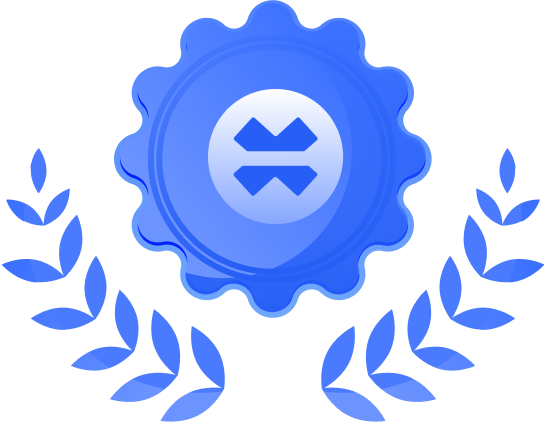
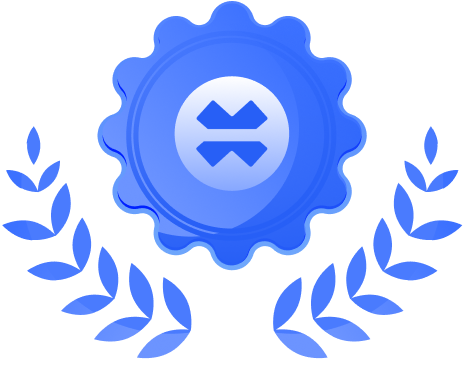
commit

diff --git a/components/layouts/Cta.js b/components/layouts/Cta.js
@@ -1,15 +1,15 @@
 "use client";
-
 import { useEffect, useState } from "react";
 import GoogleRevs from "../ui/GoogleRevs";
 import Heading from "../ui/Heading";
 
 const Cta = () => {
   const [imageSrc, setImageSrc] = useState("/images/icons/fav.png");
+  const [awardsImg, setAwardsImg] = useState("/images/elements/exl.png");
   const [awards, setAwards] = useState([]);
 
-  const largeScreenAwards = ["impact award", "excellence award"];
-  const smallScreenAwards = [
+  const smallScreenAwards = ["impact award", "excellence award"];
+  const largeScreenAwards = [
     `Home Owners <br/> & Diyer`,
     `Real estate & <br/> Property managers`,
     `paint <br/> contractors`,
@@ -19,7 +19,10 @@ const Cta = () => {
   useEffect(() => {
     const handleResize = () => {
       const isSmallScreen = window.innerWidth < 992;
-      setImageSrc(isSmallScreen ? "/images/logo.png" : "/images/icons/fav.png");
+      setImageSrc(isSmallScreen ? "/images/icons/fav.png" : "/images/logo.png");
+      setAwardsImg(
+        isSmallScreen ? "/images/elements/exl2.png" : "/images/elements/exl.png"
+      );
       setAwards(isSmallScreen ? smallScreenAwards : largeScreenAwards);
     };
 
@@ -30,55 +33,59 @@ const Cta = () => {
   }, []);
 
   return (
-    <section className="py-20 px-3 bg-[#eaeff4] border-y border-white shadow-[0_3px_8px] shadow-[rgba(20,27,52,0.04)]">
+    <section className=" lg:py-20">
       <div className="container">
         <div className="row justify-center">
-          <div className="lg:w-10/12">
-            <div className="flex flex-col gap-8 lg:gap-14 items-center text-center">
-              <div className="max-lg:relative mb-8">
+          <div className="w-full max-lg:px-0">
+            <div className="flex flex-col lg:gap-[30px] max-lg:px-6 py-10 lg:py-20 items-center text-center bg-[#eaeff4] lg:bg-[#0b0b0b]/10 lg:rounded-[40px] lg:*:px-[130px] lg:*:py-10 *:w-full">
+              <div className="relative w-full flex items-center justify-center">
                 <img
                   src={imageSrc}
-                  className="w-[170px] lg:size-[148px] relative z-[1]"
+                  className="w-[75px] lg:w-[421px] relative z-[1] inline-block max-lg:mb-[30px]"
                   alt=""
                 />
-                <div className="lg:hidden absolute top-1/2 opacity-20 z-0 left-1/2 -translate-1/2 w-[342px] h-20">
-                  <img
-                    src="/images/logo.png"
-                    className="lg:hidden object-contain size-full"
-                    alt=""
-                  />
-                </div>
+                <img
+                  src="/images/logo.png"
+                  className="max-lg:hidden absolute inset-0 m-auto w-full lg:max-w-[867px] lg:h-[194px] object-contain opacity-20"
+                  alt=""
+                />
               </div>
-              <Heading
-                oh
-                heading="Why Middler Certifies Estimates!"
-                highlight="Certifies"
-                className="text-xl"
-              />
-              <p className="text-[11px] lg:text-[26px] lg:text-neutral-500 opacity-80 lg:mb-4">
-                Because people will always think painters are making up prices
-                until a trusted party like Middler starts certifying prices.
-                That’s what we do.
-              </p>
-              <GoogleRevs />
-              <p className="font-medium text-[11px] lg:text-3xl lg:leading-[53px] mt-4">
-                “Middler’s prices are not for painters that are trying to rip
-                people off and not for customers who want to underpay painters.
-                The seal stands by that.”
-              </p>
-              <div className="grid grid-cols-2 lg:flex items-center justify-center gap-y-10 gap-x-5 lg:gap-[85px] mt-4">
+              <div>
+                <Heading
+                  oh
+                  heading="Why Middler Certifies Estimates!"
+                  highlight="Certifies"
+                  className="text-xl"
+                />
+                <p className="text-[11px] lg:text-[26px] mt-3 max-lg:mb-[35px] lg:mt-5">
+                  Because people will always think painters are making up prices
+                  until a trusted party like Middler starts certifying prices.
+                  That’s what we do.
+                </p>
+              </div>
+              <div>
+                <p className="font-medium text-[11px] lg:text-3xl lg:leading-[53px]">
+                  “Middler’s prices are not for painters that are trying to rip
+                  people off and not for customers who want to underpay
+                  painters. The seal stands by that.”
+                </p>
+              </div>
+              <div className="lg:hidden max-lg:mt-10 w-auto!">
+                <GoogleRevs />
+              </div>
+              <div className="grid grid-cols-2 lg:grid-cols-4 gap-y-10 gap-x-5 lg:gap-x-[25px] mt-10 lg:mt-4 px-3! py-0!">
                 {awards.map((item, index) => (
                   <div
                     key={index}
                     className="flex items-center justify-center flex-col text-center"
                   >
                     <img
-                      src="/images/elements/exl.png"
-                      className="w-[150px] lg:w-[273px]"
+                      src={awardsImg}
+                      className="w-[150px] lg:w-[231px]"
                       alt={item}
                     />
                     <div
-                      className="font-satoshi text-primary lg:text-black font-medium uppercase text-sm lg:text-3xl py-2.5 lg:py-1 relative after:absolute after:left-1/2 after:-translate-x-1/2 after:h-0.5 after:w-[108px] lg:after:w-[48%] after:bottom-0 after:bg-gradient-to-b after:from-primary after:to-primary-950"
+                      className="font-satoshi text-black lg:text-primary font-medium uppercase text-sm lg:text-xl py-[5px] lg:py-[7px] relative after:absolute after:left-1/2 after:-translate-x-1/2 after:h-0.5 after:w-[108px] lg:after:w-[48%] after:bottom-0 after:bg-gradient-to-b after:from-primary after:to-primary-900"
                       dangerouslySetInnerHTML={{ __html: item }}
                     />
                   </div>

diff --git a/components/layouts/Header.js b/components/layouts/Header.js
@@ -2,6 +2,7 @@
 
 import { menuItems } from "@/app/constants";
 import Button from "@/components/ui/Button";
+import { AnimatePresence, motion } from "motion/react";
 import Link from "next/link";
 import { usePathname, useRouter } from "next/navigation";
 import { useEffect, useRef, useState } from "react";
@@ -39,7 +40,7 @@ const Header = () => {
 
   return (
     <header className=" absolute z-[1000] w-full top-0 left-0 lg:pt-5">
-      <div className="container">
+      <div className="container max-lg:px-0!">
         <nav
           ref={dropdownRef}
           className="relative flex items-center justify-between bg-white shadow-[0_4px_32px_rgba(0,0,0,0.25)] px-5 py-4 lg:rounded-[10px]"
@@ -73,49 +74,63 @@ const Header = () => {
             aria-label="Toggle menu"
             className="flex lg:hidden"
           >
-            <span className="w-[26px] h-4 flex flex-col relative justify-between">
-              {[...Array(3)].map((_, index) => (
-                <span
-                  key={index}
-                  className={`h-0.5 bg-black block left-0 rounded-xl ${
-                    index === 0
-                      ? "top-0"
-                      : index === 1
-                      ? "top-1/2 -translate-y-1/2 w-4/5"
-                      : "bottom-0"
-                  }`}
-                />
-              ))}
+            <span className="w-[26px] h-4 block relative">
+              <span
+                className={`h-0.5 bg-black block left-0 rounded-xl w-full transition-all duration-300 absolute ${
+                  isMobileMenuOpen
+                    ? "rotate-45 top-1/2 -translate-y-1/2"
+                    : "top-0"
+                }`}
+              />
+              <span
+                className={`h-0.5 bg-black block left-0 rounded-xl w-4/5 transition-all duration-300 absolute ${
+                  isMobileMenuOpen ? "opacity-0" : "top-1/2 -translate-y-1/2"
+                }`}
+              />
+              <span
+                className={`h-0.5 bg-black block left-0 rounded-xl w-full transition-all duration-300 absolute ${
+                  isMobileMenuOpen
+                    ? "-rotate-45 top-1/2 -translate-y-1/2"
+                    : "bottom-0"
+                }`}
+              />
             </span>
           </button>
         </nav>
       </div>
-      {isMobileMenuOpen && (
-        <div className="lg:hidden bg-white shadow-md rounded-b-2xl px-5 py-4 absolute top-full left-0 w-full z-[999]">
-          <ul className="flex flex-col gap-4">
-            {menuItems.slice(0, 3).map((item, index) => (
-              <li key={index} className="pl-1">
-                <Link
-                  href={item.url}
-                  onClick={() => setIsMobileMenuOpen(false)}
-                  className={`block ${
-                    pathname === item.url
-                      ? "text-primary font-semibold"
-                      : "text-black hover:text-primary"
-                  } transition-all duration-200 ease-in-out`}
-                >
-                  {item.name}
-                </Link>
+      <AnimatePresence>
+        {isMobileMenuOpen && (
+          <motion.div
+            initial={{ opacity: 0, y: -20 }}
+            animate={{ opacity: 1, y: 0 }}
+            exit={{ opacity: 0, y: -20 }}
+            className="lg:hidden bg-white border-t border-t-primary shadow-[0_10px_10px_rgba(0,0,0,0.2)] rounded-b-2xl px-5 py-4 absolute top-full left-0 w-full z-[1001]"
+          >
+            <ul className="flex flex-col gap-4">
+              {menuItems.slice(0, 3).map((item, index) => (
+                <li key={index} className="pl-1">
+                  <Link
+                    href={item.url}
+                    onClick={() => setIsMobileMenuOpen(false)}
+                    className={`block ${
+                      pathname === item.url
+                        ? "text-primary font-semibold"
+                        : "text-black hover:text-primary"
+                    } transition-all duration-200 ease-in-out`}
+                  >
+                    {item.name}
+                  </Link>
+                </li>
+              ))}
+              <li className="my-4">
+                <Button small className="w-full py-2! px-3.5!" href="/">
+                  Start Now!
+                </Button>
               </li>
-            ))}
-            <li className="mt-4">
-              <Button small className="w-full" href="/">
-                Start Now!
-              </Button>
-            </li>
-          </ul>
-        </div>
-      )}
+            </ul>
+          </motion.div>
+        )}
+      </AnimatePresence>
     </header>
   );
 };

diff --git a/components/ui/GoogleRevs.js b/components/ui/GoogleRevs.js
@@ -1,34 +1,34 @@
 const GoogleRevs = () => {
   return (
-    <div className="rounded-[86px] max-lg:hidden py-6 px-12 bg-gradient-to-b from-white to-[#f3f3f3] grd_shdow-2 flex items-center justify-center gap-5">
-      <div className="rounded-full p-3.5 bg-white dbl_shw">
-        <img src="/images/icons/google.png" className="size-9" alt="" />
+    <div className="rounded-[86px] py-3 pl-5 pr-[27px] bg-gradient-to-b from-white to-[#f3f3f3] grd_shdow-2 flex items-center justify-center gap-2.5">
+      <div className="rounded-full p-2.5 bg-white dbl_shw">
+        <img src="/images/icons/google.png" className="size-[30px]" alt="" />
       </div>
       <div className="flex flex-col gap-1.5">
-        <span className="font-semibold text-lg tracking-[2%]">
+        <span className="font-semibold text-sm tracking-[2%]">
           5 Star Reviews
         </span>
-        <span className="flex items-center gap-[9px]">
+        <span className="flex items-center gap-[5px]">
           {[...Array(5)].map((_, index) => (
             <svg
               key={index}
-              width="23"
-              height="21"
-              viewBox="0 0 23 21"
+              width="17"
+              height="16"
+              viewBox="0 0 17 16"
               fill="none"
               xmlns="http://www.w3.org/2000/svg"
             >
               <path
-                d="M11.113 0.359939C11.246 -0.0493616 11.825 -0.0493618 11.958 0.359939L14.1787 7.19442C14.2381 7.37746 14.4087 7.50139 14.6012 7.50139H21.7874C22.2177 7.50139 22.3967 8.0521 22.0485 8.30506L16.2347 12.529C16.079 12.6421 16.0139 12.8427 16.0733 13.0257L18.294 19.8602C18.427 20.2695 17.9585 20.6098 17.6104 20.3569L11.7966 16.1329C11.6409 16.0198 11.4301 16.0198 11.2744 16.1329L5.4606 20.3569C5.11242 20.6098 4.64396 20.2695 4.77695 19.8602L6.99761 13.0257C7.05708 12.8427 6.99193 12.6421 6.83622 12.529L1.02247 8.30506C0.674296 8.0521 0.853232 7.50139 1.2836 7.50139H8.46979C8.66226 7.50139 8.83283 7.37746 8.89231 7.19442L11.113 0.359939Z"
-                fill="url(#paint0_linear_4299_951)"
+                d="M8.07748 0.800369C8.21047 0.391069 8.78953 0.391068 8.92251 0.800368L10.4209 5.41187C10.4804 5.59492 10.6509 5.71885 10.8434 5.71885H15.6922C16.1226 5.71885 16.3015 6.26956 15.9534 6.52252L12.0306 9.37258C11.8749 9.48571 11.8097 9.68624 11.8692 9.86928L13.3676 14.4808C13.5005 14.8901 13.0321 15.2304 12.6839 14.9775L8.76113 12.1274C8.60542 12.0143 8.39458 12.0143 8.23887 12.1274L4.31609 14.9775C3.96792 15.2304 3.49946 14.8901 3.63245 14.4808L5.13082 9.86928C5.19029 9.68624 5.12514 9.48571 4.96943 9.37258L1.04665 6.52252C0.69848 6.26956 0.877416 5.71885 1.30778 5.71885H6.1566C6.34907 5.71885 6.51964 5.59492 6.57912 5.41187L8.07748 0.800369Z"
+                fill="url(#paint0_linear_4303_1549)"
               />
               <defs>
                 <linearGradient
-                  id="paint0_linear_4299_951"
-                  x1="-0.681641"
-                  y1="11.2767"
-                  x2="23.7526"
-                  y2="11.2767"
+                  id="paint0_linear_4303_1549"
+                  x1="-0.5"
+                  y1="8.5"
+                  x2="17.5"
+                  y2="8.5"
                   gradientUnits="userSpaceOnUse"
                 >
                   <stop stopColor="#275FF6" />

diff --git a/components/layouts/GetStarted.js b/components/layouts/GetStarted.js
@@ -59,7 +59,7 @@ const GetStarted = () => {
                     Middler gives you precise estimates with total clarity
                   </p>
                   <div className="max-lg:flex justify-center max-lg:w-full">
-                    <Button small>try now</Button>
+                    <Button small>Try now</Button>
                   </div>
                 </div>
                 <div className="lg:w-[28%] flex flex-col gap-10 max-lg:order-1">
@@ -73,7 +73,7 @@ const GetStarted = () => {
                       text: `<b>Get a Real Price for your house painting</b><br/> Fast, Clear, and Accurate.`,
                     },
                   ].map((item, idx) => (
-                    <div key={idx} className="flex flex-col lg:flow-row gap-5 lg:gap-x-3.5 max-lg:border-b border-b-primary-400 max-lg:pb-2">
+                    <div key={idx} className="flex flex-col lg:flex-row gap-5 lg:gap-x-3.5 max-lg:border-b border-b-primary-400 max-lg:pb-2">
                       <img
                         className="w-[38px] h-[51px] lg:w-[30px] object-contain lg:h-10"
                         src={`/images/icons/${item.icon}`}

diff --git a/components/home/OurProcess.js b/components/home/OurProcess.js
@@ -41,7 +41,7 @@ const OurProcess = () => {
                   Here’s how:
                 </p>
               </div>
-              <div className="">
+              <div className="lg:px-10">
                 <div className="flex flex-col gap-y-14 lg:gap-y-[180px]">
                   {process.map((item, idx) => (
                     <div
@@ -73,10 +73,10 @@ const OurProcess = () => {
                             </span>
                             <div className="h-full w-0 border-2 border-dashed border-primary" />
                           </div>
-                          <h4 className="font-satoshi mb-2 lg:mb-5 text-[13px] lg:text-2xl font-bold">
+                          <h4 className="font-satoshi mb-2 lg:mb-5 text-[13px] lg:text-3xl font-bold">
                             {item.title}
                           </h4>
-                          <p className="font-satoshi font-normal text-xs lg:text-2xl">
+                          <p className="font-satoshi font-normal text-xs lg:text-3xl">
                             {item.text}
                           </p>
                         </div>

diff --git a/components/layouts/Hero.js b/components/layouts/Hero.js
@@ -4,10 +4,9 @@ import Button from "../ui/Button";
 
 const Hero = () => {
   return (
-    <section className="relative mt-20 pt-20 pb-10 px-5 lg:px-10 overflow-hidden">
+    <section className="relative mt-16 lg:mt-20 pt-12 lg:pt-20 pb-10 px-5 lg:px-10 overflow-hidden">
       <div
-        className="absolute -left-10 top-1/2 -translate-y-1/2 size-1/2 bg-center bg-no-repeat bg-[url('/images/hero_el.png')]"
-        style={{ backgroundSize: "contain" }}
+        className="absolute -left-4 top-[126px] h-[540px] w-[250px] lg:-left-10 lg:top-1/2 lg:-translate-y-1/2 lg:size-1/2 bg-center bg-no-repeat bg-[url('/images/hero_el2.png')] lg:bg-[url('/images/hero_el.png')] bg-contain"
       ></div>
       <div className="container xl:px-10! 2xl:w-[1300px]!">
         <div className="row gap-y-14 gap-x-5 justify-between items-center max-lg:text-center">
